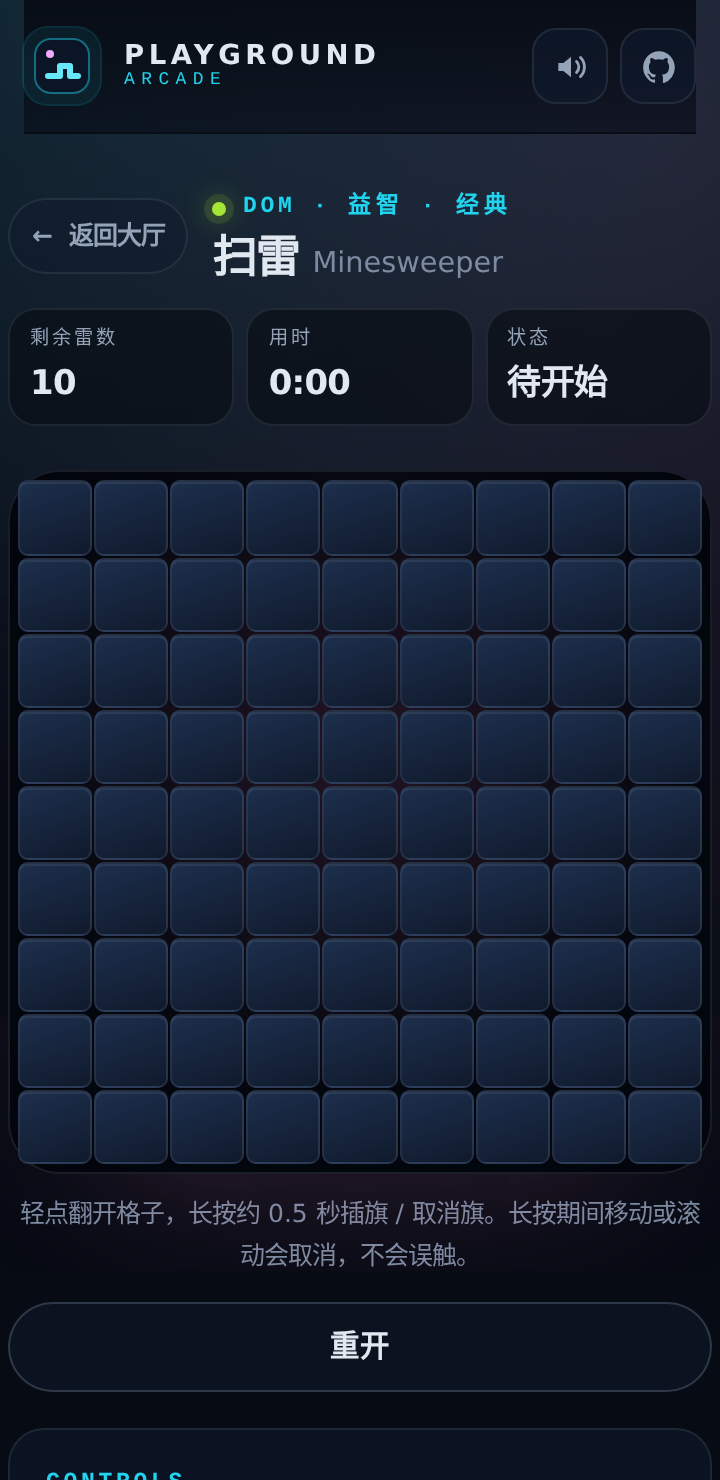
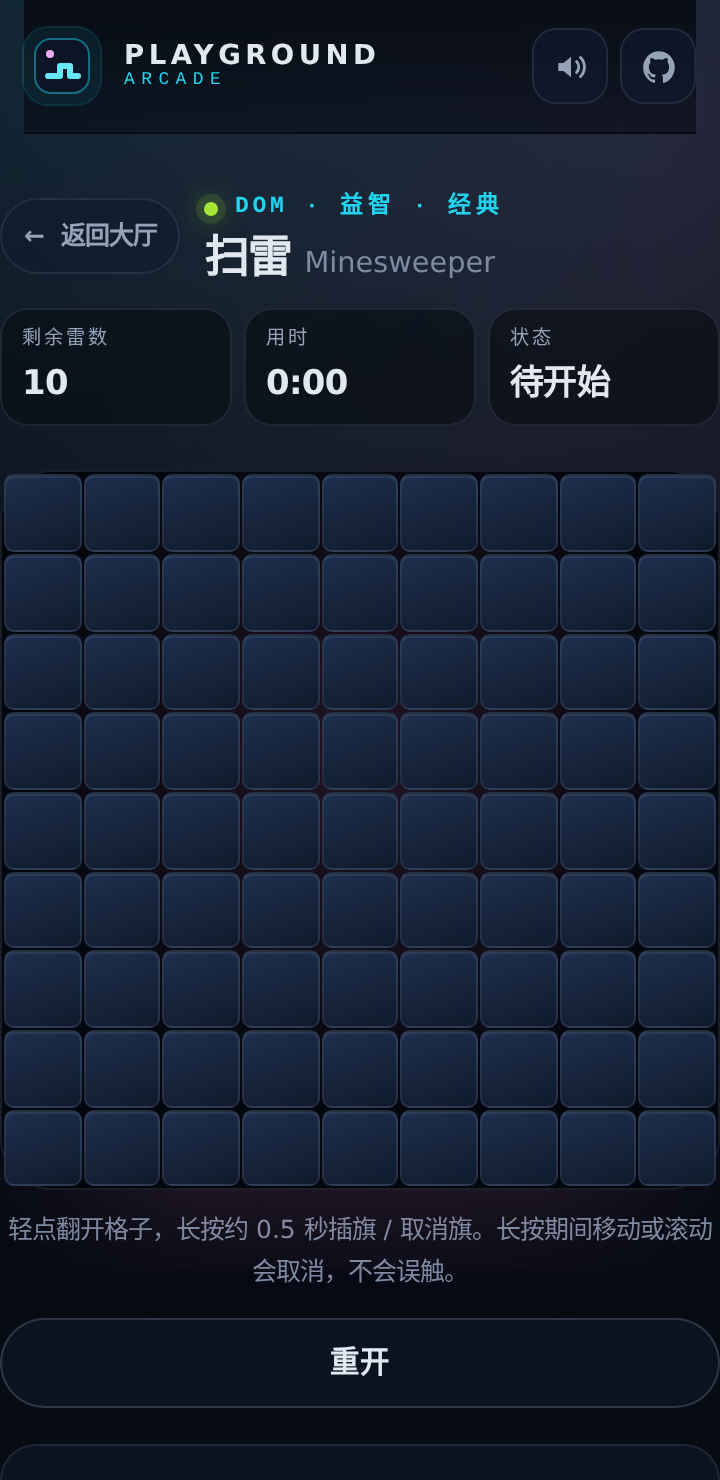
修复扫雷 320–349px 窄屏格子尺寸并明确最低宽度触控目标契约 (#56)
* fix(minesweeper): 修复 320–349px 窄屏格子尺寸并补最低宽度契约

- ≤400px 断点改为 margin-inline: -12px、stage padding 1px，保持 1px 棋盘 gap：
  320×640 每格约 34.2px，340×700 约 36.4px，349×700 约 37.4px，
  360×740 提升到约 38.7px，均无横向溢出。
- 新增 320×640 / 340×700 / 349×700 手机 e2e，断言 81 格最小尺寸、
  宽高近似相等、scrollWidth - innerWidth === 0，并检查 HUD 与返回大厅在首屏。
- 截图脚本新增 --min / --min-before 320×640 模式，重拍 320 与 360 Before/After。
- README / docs/framework.md 写明最低支持宽度 320px、≥340px 且 ≥640px 高时
  ≥36×36px、320–339px 降级为 ≥34×34px，以及 9×36=324px 放不进 320px。
- docs/screenshots/README.md 记录基线 3814d69、视口/主题与生成/复现命令。

Checks: npm run build, typecheck, lint, test:unit (251), check:budget, test:e2e (88).

* docs(minesweeper): 修正重开入口可见性表述

评审 nit："手机视口下重开入口都保持可见" 与 320 最低宽度契约不一致。改为只承诺现有用例覆盖的 360×740 与 412×839 视口；320–339px 降级区间（如 320×640）说明重开入口位于首屏之下、需滚动触达。实测 320×640 下按钮 bottom≈664px（视口 640），360×740 下≈704px（视口 740）。

---------

diff --git a/tests/e2e/minesweeper.mobile.spec.ts b/tests/e2e/minesweeper.mobile.spec.ts
@@ -1,3 +1,4 @@
+import type { Page } from '@playwright/test';
 import { expect, test } from './fixtures';
 import {
   cancelCellPress,
@@ -22,6 +23,54 @@ import {
   WIN_CLICK,
   WIN_MINES,
 } from './minesweeper-helpers';
+
+/**
+ * Viewports from the supported 320px minimum through the 349px edge of the
+ * fallback range. At 320px the board cannot reach 36px cells (9 x 36px plus
+ * gaps already exceeds the 320px viewport), so the contract there is >=34px.
+ */
+const NARROW_VIEWPORTS = [
+  { width: 320, height: 640, minimumCellSize: 34, label: '320x640' },
+  { width: 340, height: 700, minimumCellSize: 36, label: '340x700' },
+  { width: 349, height: 700, minimumCellSize: 36, label: '349x700' },
+] as const;
+
+/**
+ * Assert the narrow-screen contract: no horizontal page scroll, every one of
+ * the 81 cells at least `minimumCellSize` px in both directions and roughly
+ * square, and the HUD plus back link inside the first screen.
+ */
+async function expectNarrowBoard(page: Page, minimumCellSize: number): Promise<void> {
+  const overflow = await page.evaluate(
+    () => document.documentElement.scrollWidth - window.innerWidth,
+  );
+  expect(overflow).toBe(0);
+
+  const cellBoxes = await page.locator('[data-cell]').evaluateAll((cells) =>
+    cells.map((cell) => {
+      const box = cell.getBoundingClientRect();
+      return { width: box.width, height: box.height };
+    }),
+  );
+  expect(cellBoxes).toHaveLength(81);
+  for (const [index, box] of cellBoxes.entries()) {
+    expect(box.width, `cell ${index} width`).toBeGreaterThanOrEqual(minimumCellSize);
+    expect(box.height, `cell ${index} height`).toBeGreaterThanOrEqual(minimumCellSize);
+    expect(box.width, `cell ${index} aspect ratio`).toBeCloseTo(box.height, 1);
+  }
+
+  await expectInsideViewport(
+    page,
+    page.getByTestId('remaining-mines'),
+    'remaining mines',
+  );
+  await expectInsideViewport(page, page.getByTestId('timer'), 'timer');
+  await expectInsideViewport(
+    page,
+    page.getByRole('link', { name: /返回大厅/ }),
+    'back link',
+  );
+}
 
 test.describe('minesweeper on a phone viewport', () => {
   test('opens with the board, HUD and restart / back entries inside the viewport', async ({
@@ -66,41 +115,27 @@ test.describe('minesweeper on a phone viewport', () => {
     expect(cellBox?.width ?? 0).toBeCloseTo(cellBox?.height ?? 0, 1);
   });
 
+  for (const viewport of NARROW_VIEWPORTS) {
+    test(`keeps the board usable and overflow-free on a ${viewport.label} phone viewport`, async ({
+      page,
+    }) => {
+      await page.setViewportSize({
+        width: viewport.width,
+        height: viewport.height,
+      });
+      await openMinesweeper(page, { mines: LOSS_MINES });
+
+      await expectNarrowBoard(page, viewport.minimumCellSize);
+    });
+  }
+
   test('keeps 36px touch targets on a 360x740 phone viewport', async ({ page }) => {
     await page.setViewportSize({ width: 360, height: 740 });
     await openMinesweeper(page, { mines: LOSS_MINES });
 
     // The narrow breakpoint must reclaim space without introducing a
-    // horizontally scrolling page at the smallest common Android width.
-    const overflow = await page.evaluate(
-      () => document.documentElement.scrollWidth - window.innerWidth,
-    );
-    expect(overflow).toBe(0);
-
-    const cellBoxes = await page.locator('[data-cell]').evaluateAll((cells) =>
-      cells.map((cell) => {
-        const box = cell.getBoundingClientRect();
-        return { width: box.width, height: box.height };
-      }),
-    );
-    expect(cellBoxes).toHaveLength(81);
-    for (const [index, box] of cellBoxes.entries()) {
-      expect(box.width, `cell ${index} width`).toBeGreaterThanOrEqual(36);
-      expect(box.height, `cell ${index} height`).toBeGreaterThanOrEqual(36);
-      expect(box.width, `cell ${index} aspect ratio`).toBeCloseTo(box.height, 1);
-    }
-
-    await expectInsideViewport(
-      page,
-      page.getByTestId('remaining-mines'),
-      'remaining mines',
-    );
-    await expectInsideViewport(page, page.getByTestId('timer'), 'timer');
-    await expectInsideViewport(
-      page,
-      page.getByRole('link', { name: /返回大厅/ }),
-      'back link',
-    );
+    // horizontally scrolling page at this common Android width.
+    await expectNarrowBoard(page, 36);
     await expectInsideViewport(
       page,
       page.getByTestId('mobile-restart-button'),

diff --git a/src/games/minesweeper/minesweeper.css b/src/games/minesweeper/minesweeper.css
@@ -359,18 +359,20 @@
   }
 }
 
-/* Narrow phones (Issue #39): 360px leaves a 336px shell, which shrinks a
-   9x9 cell below the 36px touch target. Shave 8px from each side of the
-   game page's 12px shell gutter and tighten the stage padding and board
-   gaps so the cells grow instead, while the HUD and compact restart stay
-   in the first screen. */
+/* Narrow phones (Issue #53): the supported minimum is 320px. The shared 24px
+   shell gutter leaves 296px at that width, which made a 9x9 cell about 32.7px.
+   Cancel the whole 12px gutter on both sides (never wider than the viewport)
+   and tighten the stage padding and board gaps so the cells grow. This yields
+   about 34.2px cells at 320px and 36.4px from 340px up; the 320-339px range is
+   the documented geometric fallback because 9 x 36px plus gaps and borders
+   cannot fit in 320px. The HUD and back link stay in the first screen. */
 @media (max-width: 400px) {
   .minesweeper-game {
-    margin-inline: -8px;
+    margin-inline: -12px;
   }
 
   .minesweeper-stage {
-    padding: 4px;
+    padding: 1px;
   }
 
   .minesweeper-board,

diff --git a/README.md b/README.md
@@ -166,7 +166,9 @@ npm run dev
 
 扫雷用原生 DOM 网格渲染（`engine: 'dom'`），不加载 Phaser；它同样通过 hash 路由后的 query `?debug=1`（例如 `/#/games/minesweeper?debug=1`）安装调试接缝：只读状态、用 `mines=row,col;...` 固定雷盘（分号分隔单元格）、`seed` 固定随机数（缺省、空串、非数字或非有限值回退为 1，只有显式 `seed=0` 才是 0），以及 e2e 专用的 `destroy()` 销毁入口。正常入口不显示调试 UI，也不暴露调试 API。
 
-触屏长按会抑制浏览器上下文菜单和文本选择，棋盘与格子也设置了 `touch-action: manipulation` 与 `user-select: none`；手机视口下 HUD、返回大厅和棋盘旁的重开入口都保持可见，页面不会横向滚动。
+触屏长按会抑制浏览器上下文菜单和文本选择，棋盘与格子也设置了 `touch-action: manipulation` 与 `user-select: none`；手机视口下 HUD 与返回大厅保持在首屏内，页面不会横向滚动。棋盘旁的重开入口只在现有用例覆盖的 360×740 与 412×839 视口中保证位于首屏；320–339px 的几何降级区间（例如 320×640）不承诺它出现在首屏，需要向下滚动才能触达。
+
+扫雷的最低支持宽度是 320px（与 `src/styles/app.css` 的 `html { min-width: 320px }` 一致）。在宽度 ≥340px 且高度 ≥640px 的手机视口，81 个格子都保持 ≥36×36px 的触控目标；宽度 320–339px 是几何降级区间，保证每格 ≥34×34px（320px 下约 34.2px）。9×36px 已经占满 324px，再加上棋盘边框与 gap 无法放进 320px，因此这一区间不承诺 36px。宽度 >400px 的桌面 / 平板布局不受影响。
 
 ## 空白画布
 
@@ -197,6 +199,10 @@ npm run dev
 | `npm run screenshots:minesweeper` | 构建后生成扫雷大厅、桌面玩法与 Pixel 7 手机玩法截图 |
 | `npm run screenshots:minesweeper:before` | 用 `BASE_URL` 指定的 main 预览生成扫雷 Before 截图 |
 | `npm run screenshots:minesweeper:touch-before` | 用 `BASE_URL` 指定的触屏改动前基线生成手机扫雷 Before 截图 |
+| `npm run screenshots:minesweeper:narrow` | 构建后生成 360×740 扫雷窄屏 ready 截图 |
+| `npm run screenshots:minesweeper:narrow-before` | 用 `BASE_URL` 指定的窄屏改动前基线生成 360×740 Before 截图 |
+| `npm run screenshots:minesweeper:min` | 构建后生成 320×640 最低支持宽度 ready 截图 |
+| `npm run screenshots:minesweeper:min-before` | 用 `BASE_URL` 指定的窄屏改动前基线生成 320×640 Before 截图 |
 
 首次运行端到端测试前需要安装浏览器：
 
@@ -319,10 +325,10 @@ npm run lint         # 通过
 npm run test:unit    # 188 passed（含贪食蛇 21、俄罗斯方块 38、2048 35、打砖块 39、扫雷 32 个规则 / 几何用例）
 npm run build        # 通过
 npm run check:budget # 通过（入口 10.8 KB gzip，全部 JS 400.2 KB gzip）
-npm run test:e2e     # 83 passed（桌面 64 + 手机 19）
+npm run test:e2e     # 88 passed（桌面 65 + 手机 23）
 ```
 
-端到端覆盖：大厅与游戏卡片、页面内锚点滚动、进入 / 返回 / 重进、最近游玩时间（进入 → 返回大厅 → 刷新后保留）、未知游戏与未知路径、音效偏好持久化、方向键与 WASD、修饰键快捷键不劫持、鼠标点击与拖动、重置后键盘仍可用、仅容器变化时的缩放、快速切换时丢弃晚到 mount、页面隐藏时离开仍能完整销毁、监听器清理、手机触屏与横向溢出检查；贪食蛇的开始 / 暂停 / 重开、吃果实与增长、撞墙死亡、更高 / 更低最高分、刷新后最高分仍在、P / Esc / R、滑动转向、页面隐藏自动暂停、手机 D-pad 与手机端重开；俄罗斯方块的从大厅进入 / 返回、键盘移动与旋转、硬降消行计分、暂停 / 继续、堆顶结束与重开、R 重开，以及手机端触屏按钮操作与手机端结束 / 重开；2048 的从大厅进入 / 返回、方向键与 WASD 合并计分、固定棋盘无路可走结束 / 重开 / R 重开、READY 时 R 直接开始、canvas 像素确认棋盘与方块确实被绘制，以及就绪定时器与 destroy 后键盘 / 可见性 / 指针监听的清理；手机端滑动合并与横向溢出检查；打砖块的从大厅进入 / 返回、键盘与 A/D 移动挡板、非终砖击中立即计分、固定砖块过关后加速、Space 开始 / 过关继续、R 与侧栏重开、窗口失焦暂停并在恢复焦点后继续、连续三次漏球扣命至 game over 后重开、canvas 像素确认分层砖块 / 挡板 / 球被绘制、destroy 后键盘 / 指针（含 cancel / lostpointercapture）/ 可见性监听与就绪定时器、调试接缝清理，以及手机端触屏拖动挡板与横向溢出检查；扫雷的从大厅进入 / 返回、固定雷盘首开、左键翻开、右键插旗与取消旗（剩余雷数同步变化）、格子可见文本（数字 / ⚑ / ✹ 与重开清空）、踩雷结束并展示全部雷、翻开全部安全格获胜、结束后焦点进入遮罩、重开后焦点回到重开按钮、Enter 翻开聚焦格、畸形调试雷盘回退到固定随机盘、重开后的 data-revealed 清理、遮罩与侧栏重开、用时显示、调试状态读取，以及 destroy 与路由离开后的棋盘监听器、计时器、mountSignal 与调试接缝清理；手机端扫雷的轻点翻开、长按插旗 / 取消、移动 / 滚动 / 取消长按、取消后下一次轻点仍可翻开、按住超过 1.2 秒后松手不误翻、按住时重开 / destroy 取消待触发的长按、第二个指针不清除首个指针的 click 抑制、重开后焦点落在首屏可见的重开按钮、触屏踩雷 / 胜利与手机布局无横向溢出。
+端到端覆盖：大厅与游戏卡片、页面内锚点滚动、进入 / 返回 / 重进、最近游玩时间（进入 → 返回大厅 → 刷新后保留）、未知游戏与未知路径、音效偏好持久化、方向键与 WASD、修饰键快捷键不劫持、鼠标点击与拖动、重置后键盘仍可用、仅容器变化时的缩放、快速切换时丢弃晚到 mount、页面隐藏时离开仍能完整销毁、监听器清理、手机触屏与横向溢出检查；贪食蛇的开始 / 暂停 / 重开、吃果实与增长、撞墙死亡、更高 / 更低最高分、刷新后最高分仍在、P / Esc / R、滑动转向、页面隐藏自动暂停、手机 D-pad 与手机端重开；俄罗斯方块的从大厅进入 / 返回、键盘移动与旋转、硬降消行计分、暂停 / 继续、堆顶结束与重开、R 重开，以及手机端触屏按钮操作与手机端结束 / 重开；2048 的从大厅进入 / 返回、方向键与 WASD 合并计分、固定棋盘无路可走结束 / 重开 / R 重开、READY 时 R 直接开始、canvas 像素确认棋盘与方块确实被绘制，以及就绪定时器与 destroy 后键盘 / 可见性 / 指针监听的清理；手机端滑动合并与横向溢出检查；打砖块的从大厅进入 / 返回、键盘与 A/D 移动挡板、非终砖击中立即计分、固定砖块过关后加速、Space 开始 / 过关继续、R 与侧栏重开、窗口失焦暂停并在恢复焦点后继续、连续三次漏球扣命至 game over 后重开、canvas 像素确认分层砖块 / 挡板 / 球被绘制、destroy 后键盘 / 指针（含 cancel / lostpointercapture）/ 可见性监听与就绪定时器、调试接缝清理，以及手机端触屏拖动挡板与横向溢出检查；扫雷的从大厅进入 / 返回、固定雷盘首开、左键翻开、右键插旗与取消旗（剩余雷数同步变化）、格子可见文本（数字 / ⚑ / ✹ 与重开清空）、踩雷结束并展示全部雷、翻开全部安全格获胜、结束后焦点进入遮罩、重开后焦点回到重开按钮、Enter 翻开聚焦格、畸形调试雷盘回退到固定随机盘、重开后的 data-revealed 清理、遮罩与侧栏重开、用时显示、调试状态读取，以及 destroy 与路由离开后的棋盘监听器、计时器、mountSignal 与调试接缝清理；手机端扫雷的轻点翻开、长按插旗 / 取消、移动 / 滚动 / 取消长按、取消后下一次轻点仍可翻开、按住超过 1.2 秒后松手不误翻、按住时重开 / destroy 取消待触发的长按、第二个指针不清除首个指针的 click 抑制、重开后焦点落在首屏可见的重开按钮、触屏踩雷 / 胜利与手机布局无横向溢出；手机端扫雷另在 320×640 / 340×700 / 349×700 / 360×740 视口逐一断言 81 格最小尺寸、无横向溢出与 HUD / 返回大厅在首屏内。
 
 ## 已知限制
 

diff --git a/docs/screenshots/README.md b/docs/screenshots/README.md
@@ -2,23 +2,25 @@
 
 这些截图用于各期交付的 Before / After 视觉证据。全部由 Playwright Chromium 真实渲染，不是 mockup。
 
-## narrow：扫雷 360×740 窄屏触控目标（Issue #39 / 子任务 0）
+## narrow / min：扫雷 320–360px 窄屏触控目标（Issue #53 / 子任务 0）
 
-- Before 基线：`6ab15b1`（本条子任务开始前的 `main`）。360×740 下 9×9 格子约 33.5×33.5 px，低于 36 px 触控目标；页面无横向溢出，HUD 与重开入口已在首屏内。
-- After：本子任务分支 `agent/plan-39-t0`。`minesweeper.css` 新增 `max-width: 400px` 断点，收窄游戏页横向留白并压缩 stage padding / 棋盘 gap；360×740 下每格约 37.1×37.1 px，页面无横向溢出，HUD、返回大厅与 `mobile-restart-button` 仍在首屏内。桌面布局与游戏规则未改。
-- 视口 / 主题：360×740 CSS px，DPR 2，`isMobile: true`、`hasTouch: true`，深色主题，`reducedMotion: reduce`；同一固定雷盘、READY 状态，均为视口截图（`fullPage: false`）。
-- 生成 After：`npm run screenshots:minesweeper:narrow`（生产构建 + `vite preview`）。
-- 复现 Before：在 `6ab15b1` 的干净 worktree 里 `npm ci && npm run build`，用 `node_modules/vite/bin/vite.js preview --host 127.0.0.1 --port 4189 --strictPort` 启动预览，然后在当前分支运行 `BASE_URL=http://127.0.0.1:4189 npm run screenshots:minesweeper:narrow-before`。
+- Before 基线：`3814d69`（本条子任务开始前的 `main`）。320×640 下 9×9 格子约 32.7×32.7 px；360×740 下约 37.1×37.1 px。两者页面均无横向溢出，HUD 与返回大厅在首屏内；360×740 另含重开入口。
+- After：本子任务分支 `agent/plan-39-t0`。`minesweeper.css` 的 `max-width: 400px` 断点改用 `margin-inline: -12px`、stage `padding: 1px`，保留 1px 棋盘 gap；320×640 下每格约 34.2×34.2 px，360×740 下约 38.7×38.7 px，页面无横向溢出。320×640 下 HUD 与返回大厅在首屏内；360×740 下 HUD、返回大厅与 `mobile-restart-button` 仍在首屏内。桌面布局与游戏规则未改。
+- 视口 / 主题：320×640 与 360×740 CSS px，DPR 2，`isMobile: true`、`hasTouch: true`，深色主题，`reducedMotion: reduce`；同一固定雷盘、READY 状态，均为视口截图（`fullPage: false`）。
+- 生成 After：`npm run screenshots:minesweeper:min`（320×640）与 `npm run screenshots:minesweeper:narrow`（360×740），均为生产构建 + `vite preview`。
+- 复现 Before：在 `3814d69` 的干净 worktree 里 `npm ci && npm run build`，用 `node_modules/vite/bin/vite.js preview --host 127.0.0.1 --port 4189 --strictPort` 启动预览，然后在当前分支运行 `BASE_URL=http://127.0.0.1:4189 npm run screenshots:minesweeper:min-before` 与 `BASE_URL=http://127.0.0.1:4189 npm run screenshots:minesweeper:narrow-before`。
 
 | 文件 | 场景 | 视口 / 主题 | 说明 |
 | --- | --- | --- | --- |
-| `before-minesweeper-ready-360x740.png` | 扫雷 READY（360 窄屏） | 360×740 / 深色 | 修复前：格子约 33.5 px，HUD、返回大厅与重开入口可见。 |
-| `after-minesweeper-ready-360x740.png` | 扫雷 READY（360 窄屏） | 360×740 / 深色 | 修复后：格子约 37.1 px，横向无溢出，HUD、返回大厅与重开入口仍在首屏。 |
+| `before-minesweeper-ready-320x640.png` | 扫雷 READY（320 最低宽度） | 320×640 / 深色 | 修复前：格子约 32.7 px。 |
+| `after-minesweeper-ready-320x640.png` | 扫雷 READY（320 最低宽度） | 320×640 / 深色 | 修复后：格子约 34.2 px，横向无溢出。 |
+| `before-minesweeper-ready-360x740.png` | 扫雷 READY（360 窄屏） | 360×740 / 深色 | 修复前：格子约 37.1 px。 |
+| `after-minesweeper-ready-360x740.png` | 扫雷 READY（360 窄屏） | 360×740 / 深色 | 修复后：格子约 38.7 px，横向无溢出，HUD、返回大厅与重开入口仍在首屏。 |
 
 ### 证据限制
 
-- 手机端为 Playwright 设备模拟（360×740、DPR 2、触摸），不是真实设备截图。
-- 截图只证明静态视觉；`tests/e2e/minesweeper.mobile.spec.ts` 的 360×740 用例逐一断言 81 个格子 ≥36×36 px、`scrollWidth - innerWidth === 0`，并检查 HUD、返回大厅与重开入口在视口内。
+- 手机端为 Playwright 设备模拟（320×640 / 360×740、DPR 2、触摸），不是真实设备截图。
+- 截图只证明静态视觉；`tests/e2e/minesweeper.mobile.spec.ts` 的 320×640 / 340×700 / 349×700 / 360×740 用例逐一断言 81 个格子的最小尺寸（320 下 ≥34 px，340 / 349 / 360 下 ≥36 px）、`scrollWidth - innerWidth === 0`，并检查 HUD、返回大厅（360 另含重开入口）在视口内。
 
 ## t7：扫雷触屏与手机布局（Issue #33 / 子任务 2）
 

diff --git a/docs/framework.md b/docs/framework.md
@@ -311,4 +311,4 @@ Node.js `^22.12.0 || ^24.0.0 || >=26.0.0`（Vite 8 的要求）。CI（`.github/
 - 空白示例只演示框架能力；`src/games/snake/`、`src/games/tetris/`、`src/games/2048/`、`src/games/breakout/` 与 `src/games/minesweeper/` 是完整玩法参考（规则引擎、渲染器、响应式视图、测试）。扫雷是纯 DOM 参考，其余四款使用 Phaser 场景。
 - 打砖块固定 480×720 逻辑球场与 10 列砖块，没有道具、多球或在线排行榜；难度曲线由砖块行数与球速控制。
 - Lint 使用 oxlint 而不是 ESLint：TypeScript 7 暂无 JS Compiler API，`typescript-eslint` 的 peer 范围也尚未覆盖 TS 7；oxlint 负责 TS 语法与常见规则，目录边界由本地脚本补足。
-- 手机端目前用 Playwright 模拟，真实设备手感需要人工验收。
+- 手机端目前用 Playwright 模拟，真实设备手感需要人工验收。扫雷的最低支持宽度是 320px；宽度 ≥340px 且高度 ≥640px 的手机视口保证 81 格 ≥36×36px，320–339px 为几何降级区间（每格 ≥34×34px），因为 9×36px 加边框与 gap 无法放进 320px。
